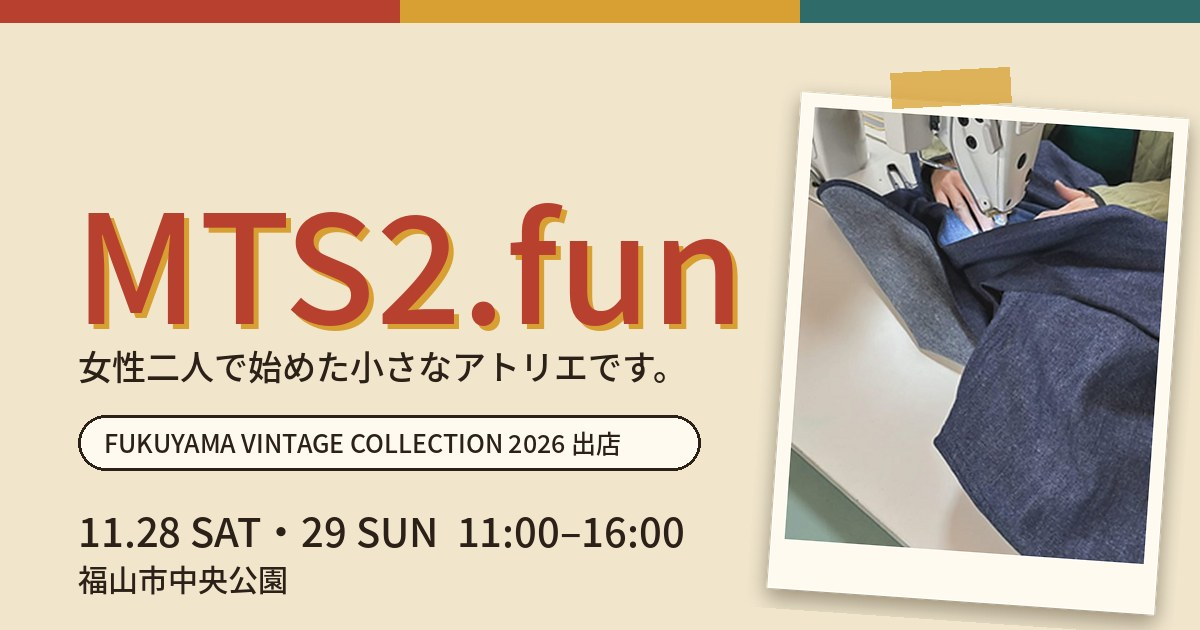
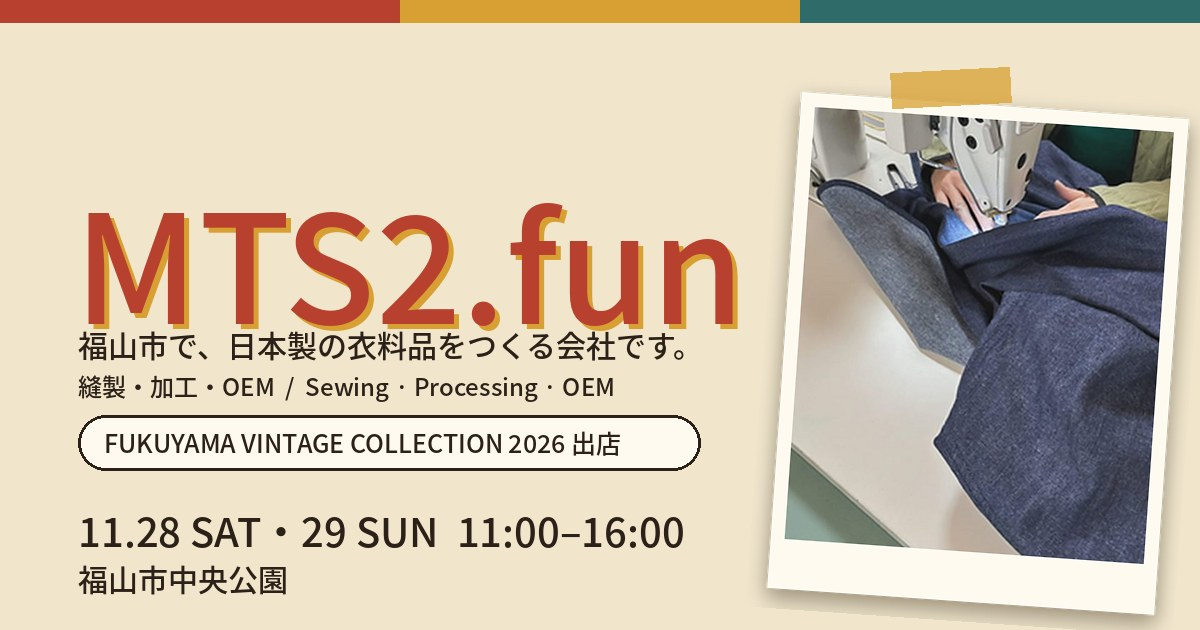
Add files via upload

Changed region(s): [[0.0617, 0.5127, 0.555, 0.6333]]

diff --git a/index.html b/index.html
@@ -5,14 +5,14 @@
 <meta name="viewport" content="width=device-width, initial-scale=1">
 <title>MTS2.fun 出店のお知らせ|FUKUYAMA VINTAGE COLLECTION 2026 福山市</title>
 <meta name="google-site-verification" content="NfM0z2H-zmE8KL-rgIAgdS9WO0baHexkNUgysqUXl8A" />
-<meta name="description" content="MTS2.funは女性二人で始めた小さなアトリエです。11/28(土)・29(日)、福山市中央公園で開催のFUKUYAMA VINTAGE COLLECTION 2026に出店します。 / MTS2.fun is a small atelier started by two women. We are exhibiting at FUKUYAMA VINTAGE COLLECTION 2026 in Fukuyama, Hiroshima on Nov 28–29, 2026 (11:00–16:00, cash only).">
+<meta name="description" content="MTS2.funは福山市で日本製の衣料品をつくる会社です(縫製・加工・OEM)。11/28(土)・29(日)、福山市中央公園で開催のFUKUYAMA VINTAGE COLLECTION 2026に出店します。 / MTS2.fun is a clothing manufacturer in Fukuyama, Hiroshima, making products in Japan (sewing, garment processing &amp; OEM). We are exhibiting at FUKUYAMA VINTAGE COLLECTION 2026 on Nov 28–29, 2026 (11:00–16:00, cash only).">
 <meta name="robots" content="index,follow,max-image-preview:large,max-snippet:-1">
 <link rel="canonical" href="https://mts2fun.github.io/mts2fun-lp/">
 <link rel="alternate" type="text/plain" href="llms.txt" title="llms.txt">
 <meta name="author" content="MTS2.fun">
 <meta property="og:type" content="website">
 <meta property="og:title" content="MTS2.fun 出店のお知らせ / Exhibitor Announcement | FUKUYAMA VINTAGE COLLECTION 2026">
-<meta property="og:description" content="11/28(土)・29(日) 11:00〜16:00 福山市中央公園。女性二人で始めた小さなアトリエです。 / Nov 28–29, 11:00–16:00, Fukuyama Central Park. A small atelier started by two women.">
+<meta property="og:description" content="11/28(土)・29(日) 11:00〜16:00 福山市中央公園。福山市で日本製の衣料品をつくる会社です。 / Nov 28–29, 11:00–16:00, Fukuyama Central Park. A clothing manufacturer in Fukuyama, making products in Japan.">
 <meta property="og:image" content="https://mts2fun.github.io/mts2fun-lp/assets/ogp.jpg">
 <meta property="og:image:width" content="1200">
 <meta property="og:image:height" content="630">
@@ -53,7 +53,21 @@
    "@id": "https://mts2fun.github.io/mts2fun-lp/#org",
    "name": "MTS2.fun",
    "url": "https://mts2fun.github.io/mts2fun-lp/",
-   "description": "MTS2.funは女性二人で始めた小さなアトリエです。 / MTS2.fun is a small atelier started by two women.",
+   "description": "福山市で日本製の衣料品をつくる会社です。縫製・加工・OEMに対応しています。 / A clothing manufacturer in Fukuyama, Hiroshima, making products in Japan. Sewing, garment processing and OEM.",
+   "address": {
+    "@type": "PostalAddress",
+    "addressLocality": "福山市",
+    "addressRegion": "広島県",
+    "addressCountry": "JP"
+   },
+   "knowsAbout": [
+    "衣料品の縫製",
+    "衣料品の加工",
+    "OEM(受託製造)",
+    "Sewing",
+    "Garment processing",
+    "OEM manufacturing"
+   ],
    "image": "https://mts2fun.github.io/mts2fun-lp/assets/ogp.jpg",
    "sameAs": [
     "https://www.instagram.com/mts2.fun/"
@@ -127,6 +141,8 @@ dt .en{font-size:.68rem;opacity:.9;letter-spacing:0}
   text-shadow:3px 3px 0 var(--mustard)}
 .p{font-family:"Zen Maru Gothic","Hiragino Maru Gothic ProN",sans-serif;font-weight:700}
 .tagline{font-size:.95rem}
+.trade{margin-top:8px;font-weight:700;font-size:.9rem;letter-spacing:.1em;line-height:1.5}
+.label{display:inline-block;margin-top:14px;padding:5px 16px;background:var(--teal);color:var(--paper);border:2px dashed var(--paper);outline:2px solid var(--teal);border-radius:4px;font-size:.7rem;letter-spacing:.16em;font-weight:700;line-height:1.4}
 .hero-photo{position:relative;width:min(78%,300px);margin:34px auto 0;transform:rotate(-2.5deg)}
 .polaroid{background:var(--white);padding:10px 10px 34px;box-shadow:0 2px 0 rgba(0,0,0,.06),0 10px 18px -8px rgba(60,40,10,.55)}
 .polaroid img{display:block;width:100%;height:auto;aspect-ratio:4/5;object-fit:cover;filter:sepia(.28) saturate(.92) contrast(1.04)}
@@ -203,12 +219,14 @@ footer .stripe{margin-bottom:26px}
   <div class="wrap">
     <span class="kicker">FUKUYAMA VINTAGE COLLECTION 2026 出店<span class="en" lang="en">Exhibitor announcement</span></span>
     <h1 class="logo" aria-label="MTS2.fun">MTS2<span class="p">.</span>fun</h1>
-    <p class="tagline">女性二人で始めた小さなアトリエです。<span class="en" lang="en">A small atelier started by two women.</span></p>
+    <p class="tagline">福山市で、日本製の衣料品をつくる会社です。<span class="en" lang="en">A clothing manufacturer in Fukuyama, Hiroshima, making products in Japan.</span></p>
+    <p class="trade">縫製・加工・OEM<span class="en" lang="en">Sewing, garment processing &amp; OEM</span></p>
+    <p class="label" lang="en">MADE IN JAPAN / FUKUYAMA, HIROSHIMA</p>
 
     <div class="hero-photo">
       <div class="polaroid">
         <span class="tape" aria-hidden="true"></span>
-        <img src="assets/hero.jpg" alt="ミシンでデニム生地を縫っているアトリエの作業風景 / Sewing denim fabric at the atelier" width="498" height="600">
+        <img src="assets/hero.jpg" alt="ミシンでデニム生地を縫っている作業場の様子 / Sewing denim fabric at the workshop" width="498" height="600">
       </div>
       <div class="stamp" aria-hidden="true"><span>NOV</span><b>28<span class="p">-</span>29</b><span>SAT / SUN</span></div>
     </div>
@@ -219,9 +237,9 @@ footer .stripe{margin-bottom:26px}
 <main>
   <section class="sec" aria-labelledby="g">
     <div class="wrap">
-      <h2 id="g">アトリエの風景<span class="en" lang="en">Inside the Atelier</span></h2>
+      <h2 id="g">ものづくりの現場<span class="en" lang="en">Our Workshop</span></h2>
       <ul class="gallery">
-        <li><div class="polaroid"><img loading="lazy" src="assets/p1.jpg" alt="アトリエのミシン / Sewing machine at the atelier" width="498" height="600"></div></li>
+        <li><div class="polaroid"><img loading="lazy" src="assets/p1.jpg" alt="作業場のミシン / Sewing machine at the workshop" width="498" height="600"></div></li>
         <li><div class="polaroid"><img loading="lazy" src="assets/p2.jpg" alt="デニムにボタンを付ける手元 / Sewing a button onto denim" width="498" height="612"></div></li>
         <li><div class="polaroid"><img loading="lazy" src="assets/p3.jpg" alt="生地のポケットを整える手元 / Shaping a pocket on fabric" width="498" height="606"></div></li>
         <li><div class="polaroid"><img loading="lazy" src="assets/p4.jpg" alt="デニムの補修の様子 / Mending denim" width="498" height="612"></div></li>
@@ -250,6 +268,7 @@ footer .stripe{margin-bottom:26px}
       <div class="links">
         <a class="btn" href="https://www.google.com/maps/search/?api=1&query=%E7%A6%8F%E5%B1%B1%E5%B8%82%E4%B8%AD%E5%A4%AE%E5%85%AC%E5%9C%92" target="_blank" rel="noopener">地図を見る<span class="en" lang="en">View map</span></a>
         <a class="btn red" href="https://www.instagram.com/mts2.fun/" target="_blank" rel="noopener">Instagram @mts2.fun</a>
+        <p class="sub">OEM・製造のご相談は、InstagramのDMへ<br><span lang="en">For OEM and manufacturing inquiries, please DM us on Instagram.</span></p>
         <p class="sub"><a href="https://www.instagram.com/fukuyama_vintage_collection/" target="_blank" rel="noopener">イベント主催 / Event organizer: @fukuyama_vintage_collection</a></p>
       </div>
     </div>
